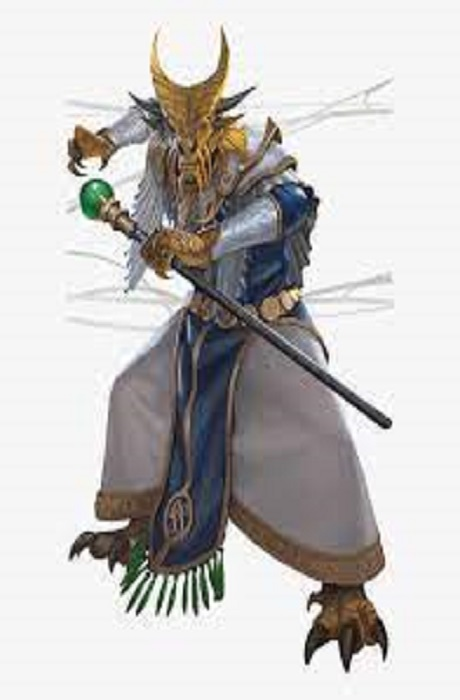
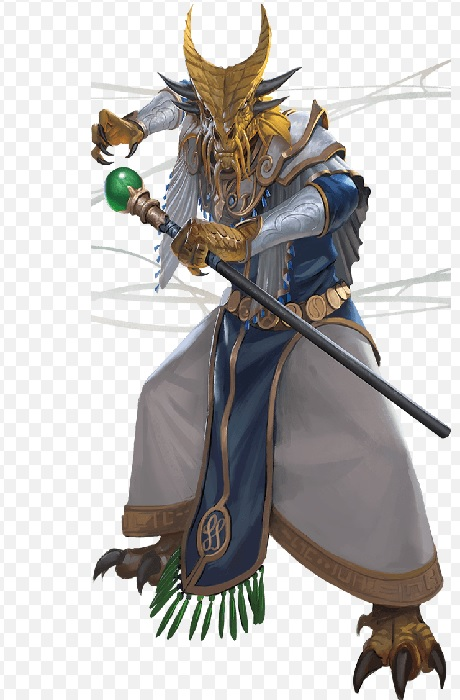
added rogue and monk imgs

diff --git a/js/script.js b/js/script.js
@@ -97,12 +97,20 @@ function changeImg() {
     var characterClass = document.getElementById("char-class").innerText
     var characterRace = document.getElementById("char-race").innerText.toLowerCase()
 
-    if (characterClass == "Barbarian" || characterClass == "Fighter" || characterClass == "Rogue" || characterClass == "Paladin"){
+    if (characterClass == "Barbarian" || characterClass == "Fighter" || characterClass == "Paladin"){
         document.getElementById("character-img").src = "assets/images/" + characterRace + "/sword.jpg"
     }
-
-    else if (characterClass == "Sorcerer" || characterClass == "Druid" || characterClass == "Wizard" || characterClass == "Monk") {
+    
+    else if (characterClass == "Sorcerer" || characterClass == "Druid" || characterClass == "Wizard") {
         document.getElementById("character-img").src = "assets/images/" + characterRace + "/staff.jpg"
+    }
+
+    else if (characterClass == "Monk") {
+        document.getElementById("character-img").src = "assets/images/" + characterRace + "/monk.jpg"
+    }
+
+    else if (characterClass == "Rogue") {
+        document.getElementById("character-img").src = "assets/images/" + characterRace + "/rogue.jpg"
     }
 
     else if (characterClass == "Warlock") {
